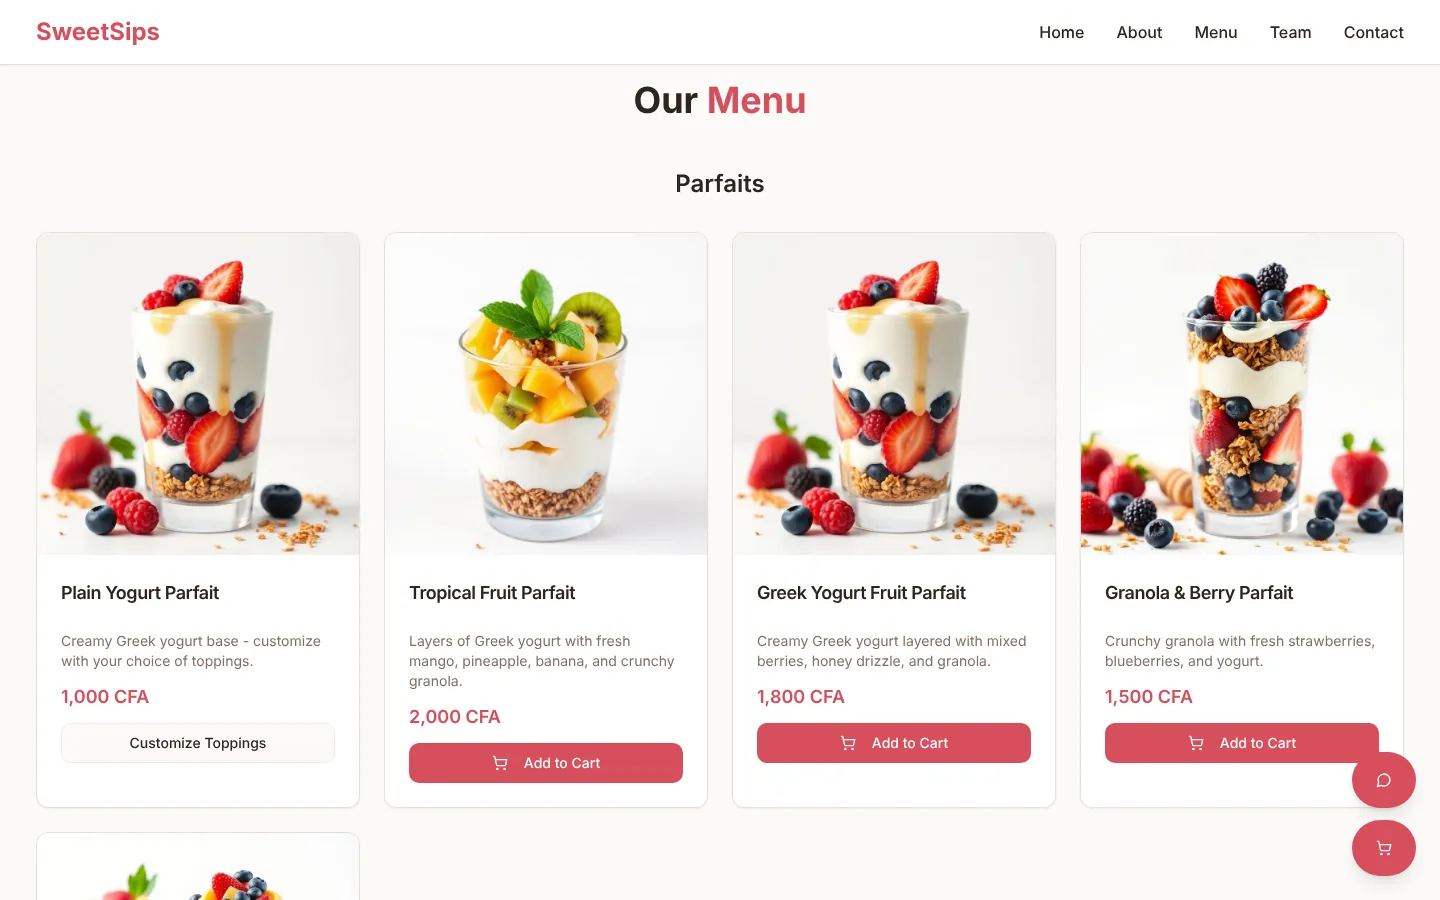
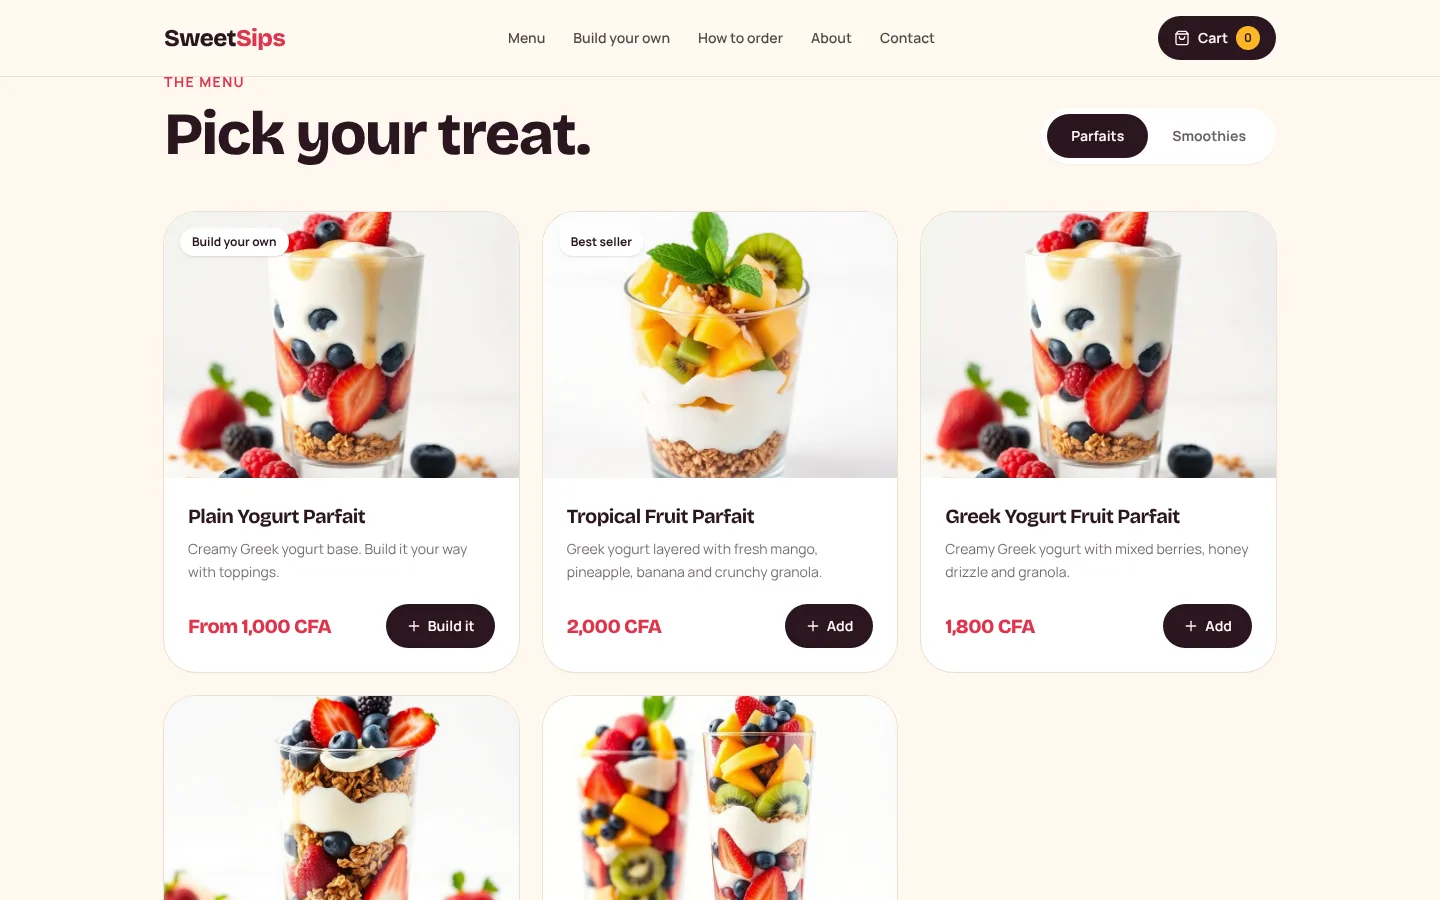
Update the SweetSips case study for the redesign
New screenshots (hero, mobile, menu, parfait story, build your own),
a new 'The redesign' section on the motion work, Framer Motion in the
stack, and matching French copy.

Claude-Session: https://claude.ai/code/session_014Fo4V2e4Aw97HrD51miLoH

diff --git a/src/i18n/fr.ts b/src/i18n/fr.ts
@@ -385,15 +385,30 @@ export const fr: Record<string, string> = {
   "This project reinforced how valuable it is to look for friction inside experiences that already exist. A useful feature doesn't have to be a whole new product. Sometimes improving one specific interaction is what makes the experience more convenient.": "Ce projet m'a confirmé l'intérêt de chercher les points de friction dans des expériences qui existent déjà. Une fonctionnalité utile n'a pas besoin d'être un produit entièrement nouveau. Parfois, améliorer une seule interaction suffit à rendre l'expérience plus pratique.",
   "It also showed me how closely problem definition, user needs, information organisation and interface design depend on each other.": "Il m'a aussi montré à quel point la définition du problème, les besoins des utilisateurs, l'organisation de l'information et le design d'interface dépendent les uns des autres.",
   "Brand website & ordering experience": "Site de marque et expérience de commande",
-  "A bright, appetite-first website for a student-run parfait and smoothie brand in Cotonou, with a full menu, topping customisation and a delivery checkout.": "Un site lumineux qui met l'eau à la bouche, pour une marque de parfaits et de smoothies tenue par des étudiants à Cotonou, avec un menu complet, la personnalisation des garnitures et une commande avec livraison.",
-  "SweetSips is a health-focused parfait and smoothie brand based in Cotonou, started by a student team as a school entrepreneurship project, with me as COO. I designed and built the website on my own, to introduce the brand, present the menu and let customers place an order.": "SweetSips est une marque de parfaits et de smoothies axée sur la santé, basée à Cotonou, lancée par une équipe d'étudiants dans le cadre d'un projet d'entrepreneuriat scolaire, dont j'étais la directrice des opérations. J'ai conçu et développé le site seule, pour présenter la marque et le menu, et permettre aux clients de commander.",
+  "A bright, animated website for a student-run parfait and smoothie brand in Cotonou: smoothies that change on their own, a parfait that builds as you scroll, topping customisation and a delivery checkout.": "Un site lumineux et animé pour une marque étudiante de parfaits et de smoothies à Cotonou : des smoothies qui défilent seuls, un parfait qui se construit au fil du défilement, des garnitures à choisir et un paiement avec livraison.",
+  "SweetSips is a health-focused parfait and smoothie brand based in Cotonou, started by a student team as a school entrepreneurship project, with me as COO. I designed and built the website on my own, to introduce the brand, present the menu and let customers place an order. In 2026 I redesigned it with a new look and motion.": "SweetSips est une marque de parfaits et de smoothies axée sur la santé, basée à Cotonou, lancée par une équipe d'étudiants dans le cadre d'un projet d'entrepreneuriat scolaire, dont j'étais la directrice des opérations. J'ai conçu et développé le site seule, pour présenter la marque et le menu, et permettre aux clients de commander. En 2026, je l'ai repensé avec une nouvelle identité et du mouvement.",
+  "SweetSips homepage: a mango smoothie on a warm yellow background with the headline 'Mango Burst' and an Add for 1,800 CFA button": "Page d'accueil de SweetSips : un smoothie à la mangue sur un fond jaune chaud, avec le titre « Mango Burst » et un bouton Ajouter pour 1 800 CFA",
+  "The homepage cycles through the four smoothies on its own, changing colour with each one.": "La page d'accueil fait défiler seule les quatre smoothies, et change de couleur avec chacun.",
+  "The same moving hero on mobile, with the cart always in reach.": "La même section animée sur mobile, avec le panier toujours à portée de main.",
+  "The redesign": "La refonte",
+  "Let the food do the moving": "Laisser les fruits faire le spectacle",
+  "A hero that changes flavour": "Une page d'accueil qui change de saveur",
+  "The smoothies take turns on their own, and the background, price and Add button change with each one.": "Les smoothies se relaient tout seuls, et le fond, le prix et le bouton Ajouter changent avec chacun.",
+  "Built layer by layer": "Construit couche par couche",
+  "One scroll adds one layer: yogurt, granola, berries, tropical fruit, then the crown. The words and the photo always match.": "Un défilement ajoute une couche : yaourt, granola, fruits rouges, fruits tropicaux, puis la touche finale. Le texte et la photo correspondent toujours.",
+  "Motion with manners": "Du mouvement, avec égards",
+  "Visitors who turn off motion on their device get the finished picture, without the movement.": "Les visiteurs qui désactivent les animations sur leur appareil voient l'image finale, sans mouvement.",
+  "SweetSips 'Built layer by layer' section on step 5 of 5, 'Crown it', with a full parfait in a tall glass": "Section « Built layer by layer » de SweetSips à l'étape 5 sur 5, « Crown it », avec un parfait complet dans un grand verre",
+  "Step five of the parfait story: the finished cup.": "Cinquième étape de l'histoire du parfait : le verre terminé.",
+  "Start from the yogurt base and tap toppings, each priced so the total stays clear.": "On part de la base de yaourt et on touche les garnitures, chacune avec son prix, pour que le total reste clair.",
+  "SweetSips menu section with Parfaits and Smoothies tabs, parfait cards and prices in CFA": "Section menu de SweetSips avec les onglets Parfaits et Smoothies, des cartes de parfaits et des prix en CFA",
+  "The menu: two tabs, clear prices and one action per item.": "Le menu : deux onglets, des prix clairs et une seule action par article.",
+  "SweetSips Build your own section with mango, strawberries and granola picked and a total of 2,500 CFA": "Section « Build your own » de SweetSips avec mangue, fraises et granola choisis et un total de 2 500 CFA",
+  "Build your own: tap toppings and watch the total.": "À composer soi-même : on touche les garnitures et le total suit.",
   "Sole web designer & developer": "Seule designer et développeuse web",
   "COO of the student team": "Directrice des opérations de l'équipe étudiante",
   "Visit the live site": "Voir le site en ligne",
-  "SweetSips homepage: a full-bleed photo of fruit parfaits and smoothies with the headline 'Fresh Fruit Parfaits & Smoothies, Made with Love'": "Page d'accueil de SweetSips : une photo pleine largeur de parfaits aux fruits et de smoothies avec le titre « Fresh Fruit Parfaits & Smoothies, Made with Love »",
-  "The homepage leads with the product itself.": "La page d'accueil met le produit en avant.",
   "SweetSips homepage on a phone": "Page d'accueil de SweetSips sur un téléphone",
-  "Mobile entrance with thumb-reachable cart and chat buttons.": "L'entrée sur mobile, avec les boutons panier et chat à portée de pouce.",
   "The brief": "Le brief",
   "Make healthy feel like a treat": "Rendre le sain aussi gourmand qu'une gâterie",
   "The brand promise is simple: fresh, hygienic, affordable fruit blends for busy people in the city. The site needed to sell that in a glance, then get out of the way so customers could order.": "La promesse de la marque est simple : des mélanges de fruits frais, hygiéniques et abordables pour les citadins pressés. Le site devait le faire comprendre d'un coup d'œil, puis s'effacer pour laisser les clients commander.",
@@ -402,13 +417,8 @@ export const fr: Record<string, string> = {
   "A menu you can taste": "Un menu qui donne faim",
   "Parfaits and smoothies are shown with photography, a short description and a price in CFA.": "Parfaits et smoothies sont présentés avec une photo, une courte description et un prix en CFA.",
   "Build your own": "À composer soi-même",
-  "Parfaits can be customised with individual toppings, each priced so the total stays clear.": "Les parfaits se personnalisent avec des garnitures, chacune avec son prix, pour que le total reste clair.",
   "Delivery choices": "Choix de livraison",
   "Checkout offers regular or shared delivery, with the delivery fee shown before the order is placed.": "Le paiement propose une livraison standard ou partagée, avec les frais affichés avant de valider la commande.",
-  "Always a way to ask": "Toujours un moyen de demander",
-  "Floating cart and chat buttons stay within reach on every screen size.": "Des boutons panier et chat flottants restent à portée de main sur tous les écrans.",
-  "SweetSips menu section with parfait cards, prices in CFA and Add to Cart buttons": "Section menu de SweetSips avec des cartes de parfaits, des prix en CFA et des boutons Ajouter au panier",
-  "The menu: consistent cards, clear prices and one action per item.": "Le menu : des cartes cohérentes, des prix clairs et une seule action par article.",
   "Web platform, front-end development": "Plateforme web, développement front-end",
   "A play-to-earn gaming platform concept featuring Whot, Ludo Naija and Ayo Olopon, with accounts, a wallet and leaderboards.": "Un concept de plateforme de jeux « play-to-earn » avec le Whot, le Ludo Naija et l'Ayo Olopon, des comptes, un portefeuille et des classements.",
   "GamerzVerse is a concept for a play-to-earn gaming platform centred on familiar Nigerian games, created by a student team as a school project. I was the team's front-end developer and built the website: its pages, flows and interface.": "GamerzVerse est un concept de plateforme de jeux « play-to-earn » autour de jeux nigérians familiers, créé par une équipe d'étudiants dans le cadre d'un projet scolaire. J'étais la développeuse front-end de l'équipe et j'ai réalisé le site : ses pages, ses parcours et son interface.",

diff --git a/src/content/exhibits.ts b/src/content/exhibits.ts
@@ -471,20 +471,20 @@ export const exhibits: Exhibit[] = [
     statuses: ["Completed", "Academic"],
     tone: "coral",
     summary:
-      "A bright, appetite-first website for a student-run parfait and smoothie brand in Cotonou, with a full menu, topping customisation and a delivery checkout.",
+      "A bright, animated website for a student-run parfait and smoothie brand in Cotonou: smoothies that change on their own, a parfait that builds as you scroll, topping customisation and a delivery checkout.",
     intro:
-      "SweetSips is a health-focused parfait and smoothie brand based in Cotonou, started by a student team as a school entrepreneurship project, with me as COO. I designed and built the website on my own, to introduce the brand, present the menu and let customers place an order.",
+      "SweetSips is a health-focused parfait and smoothie brand based in Cotonou, started by a student team as a school entrepreneurship project, with me as COO. I designed and built the website on my own, to introduce the brand, present the menu and let customers place an order. In 2026 I redesigned it with a new look and motion.",
     role: ["Sole web designer & developer", "COO of the student team"],
-    stack: ["React", "TypeScript", "Vite", "Tailwind CSS", "shadcn/ui", "Vercel"],
+    stack: ["React", "TypeScript", "Vite", "Tailwind CSS", "Framer Motion", "Vercel"],
     links: [
       { label: "Visit the live site", href: "https://sweetsips-landing-page-project.vercel.app/" },
     ],
     cover: desk(
       "sweetsips-hero",
-      "SweetSips homepage: a full-bleed photo of fruit parfaits and smoothies with the headline 'Fresh Fruit Parfaits & Smoothies, Made with Love'",
-      "The homepage leads with the product itself.",
+      "SweetSips homepage: a mango smoothie on a warm yellow background with the headline 'Mango Burst' and an Add for 1,800 CFA button",
+      "The homepage cycles through the four smoothies on its own, changing colour with each one.",
     ),
-    secondary: phone("sweetsips-mobile", "SweetSips homepage on a phone", "Mobile entrance with thumb-reachable cart and chat buttons."),
+    secondary: phone("sweetsips-mobile", "SweetSips homepage on a phone", "The same moving hero on mobile, with the cart always in reach."),
     sections: [
       {
         kicker: "The brief",
@@ -494,16 +494,28 @@ export const exhibits: Exhibit[] = [
         ],
       },
       {
+        kicker: "The redesign",
+        title: "Let the food do the moving",
+        points: [
+          { title: "A hero that changes flavour", text: "The smoothies take turns on their own, and the background, price and Add button change with each one." },
+          { title: "Built layer by layer", text: "One scroll adds one layer: yogurt, granola, berries, tropical fruit, then the crown. The words and the photo always match." },
+          { title: "Motion with manners", text: "Visitors who turn off motion on their device get the finished picture, without the movement." },
+        ],
+        shots: [
+          desk("sweetsips-story", "SweetSips 'Built layer by layer' section on step 5 of 5, 'Crown it', with a full parfait in a tall glass", "Step five of the parfait story: the finished cup."),
+        ],
+      },
+      {
         kicker: "Ordering",
         title: "From menu to doorstep on one page",
         points: [
           { title: "A menu you can taste", text: "Parfaits and smoothies are shown with photography, a short description and a price in CFA." },
-          { title: "Build your own", text: "Parfaits can be customised with individual toppings, each priced so the total stays clear." },
+          { title: "Build your own", text: "Start from the yogurt base and tap toppings, each priced so the total stays clear." },
           { title: "Delivery choices", text: "Checkout offers regular or shared delivery, with the delivery fee shown before the order is placed." },
-          { title: "Always a way to ask", text: "Floating cart and chat buttons stay within reach on every screen size." },
         ],
         shots: [
-          desk("sweetsips-menu", "SweetSips menu section with parfait cards, prices in CFA and Add to Cart buttons", "The menu: consistent cards, clear prices and one action per item."),
+          desk("sweetsips-menu", "SweetSips menu section with Parfaits and Smoothies tabs, parfait cards and prices in CFA", "The menu: two tabs, clear prices and one action per item."),
+          desk("sweetsips-build", "SweetSips Build your own section with mango, strawberries and granola picked and a total of 2,500 CFA", "Build your own: tap toppings and watch the total."),
         ],
       },
     ],
